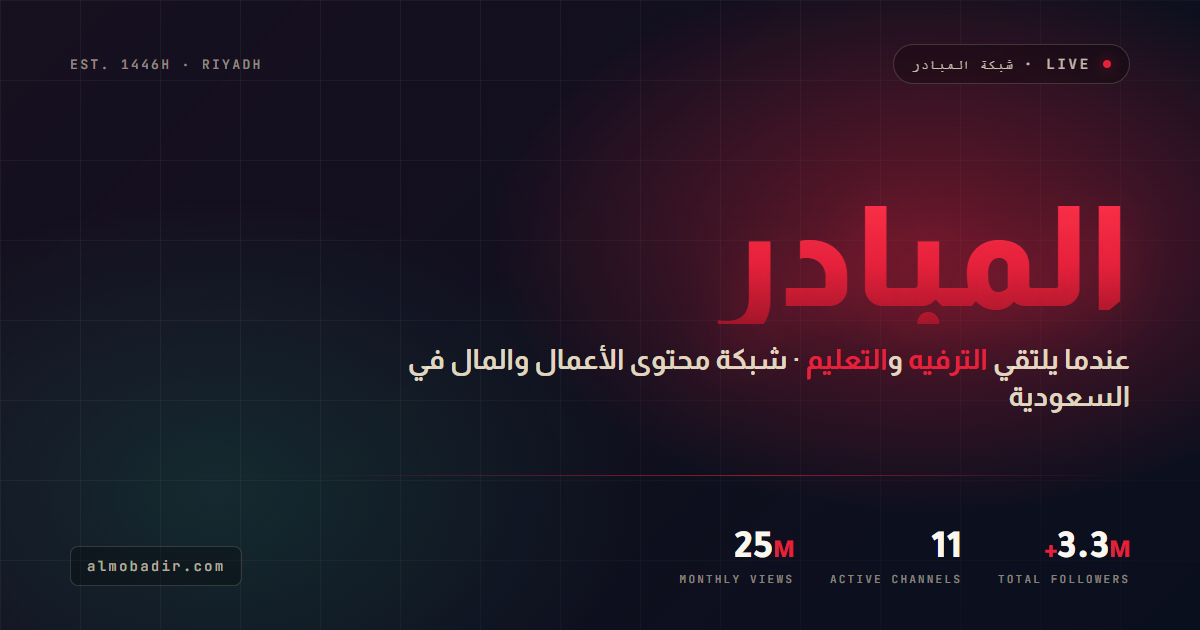
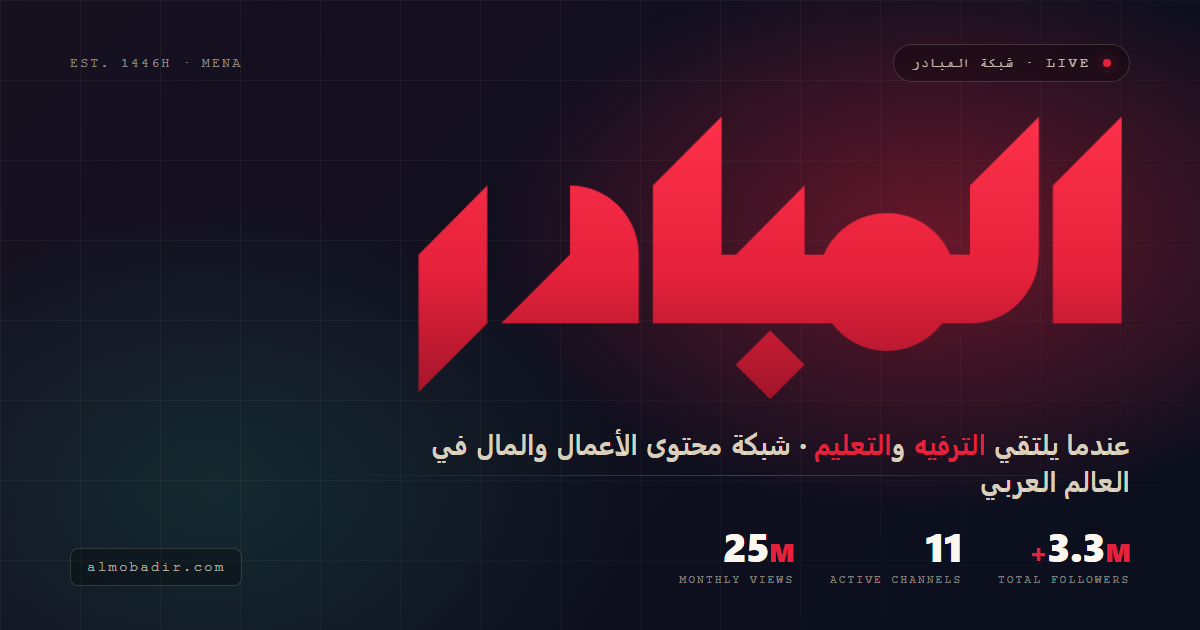
OG image · re-render with pan-MENA copy + official brand wordmark
The og-source.html template was already pan-MENA correct after commit
07220df ("EST. 1446H · MENA", "العالم العربي"), but the rendered
og-1200x630.png was stale and still showed "RIYADH" and "السعودية" —
which meant every WhatsApp/Twitter/LinkedIn share of the site was still
displaying the Saudi-anchored card, silently undoing the rebrand.

· Updated the template wordmark to use the official brand asset
  (brand-wordmark-white-crop.png) via CSS mask + red gradient, matching
  what the live hero now does — so the OG card shows the real geometric
  blocky brand typography instead of the Almarai fallback
· Re-rendered og-1200x630.png from the updated source via Chrome
  headless at 1200×630

diff --git a/assets/og/og-source.html b/assets/og/og-source.html
@@ -62,16 +62,20 @@
   }
   .center { display: grid; align-content: center; gap: 18px; }
   .wordmark {
-    font-family: 'Almarai', 'Tajawal', sans-serif;
-    font-weight: 800;
-    font-size: 140px; line-height: 0.94;
-    letter-spacing: -0.018em;
+    display: block;
+    width: 720px;
+    aspect-ratio: 706 / 294;
     margin: 0;
-    color: transparent;
     background: linear-gradient(180deg, #FF324A 0%, #E6213B 55%, #9C1428 100%);
-    -webkit-background-clip: text;
-            background-clip: text;
-    text-shadow: 0 12px 56px rgba(230,33,59,0.32);
+    -webkit-mask-image: url('../logo/brand-wordmark-white-crop.png');
+            mask-image: url('../logo/brand-wordmark-white-crop.png');
+    -webkit-mask-size: contain;
+            mask-size: contain;
+    -webkit-mask-repeat: no-repeat;
+            mask-repeat: no-repeat;
+    -webkit-mask-position: center;
+            mask-position: center;
+    filter: drop-shadow(0 12px 56px rgba(230,33,59,0.32));
   }
   .tagline {
     font-family: 'Almarai', 'Tajawal', sans-serif;
@@ -137,7 +141,7 @@
   </div>
 
   <div class="center">
-    <h1 class="wordmark">المبادر</h1>
+    <div class="wordmark" role="img" aria-label="المبادر"></div>
     <p class="tagline">عندما يلتقي <em>الترفيه</em> و<em>التعليم</em> · شبكة محتوى الأعمال والمال في العالم العربي</p>
   </div>
 